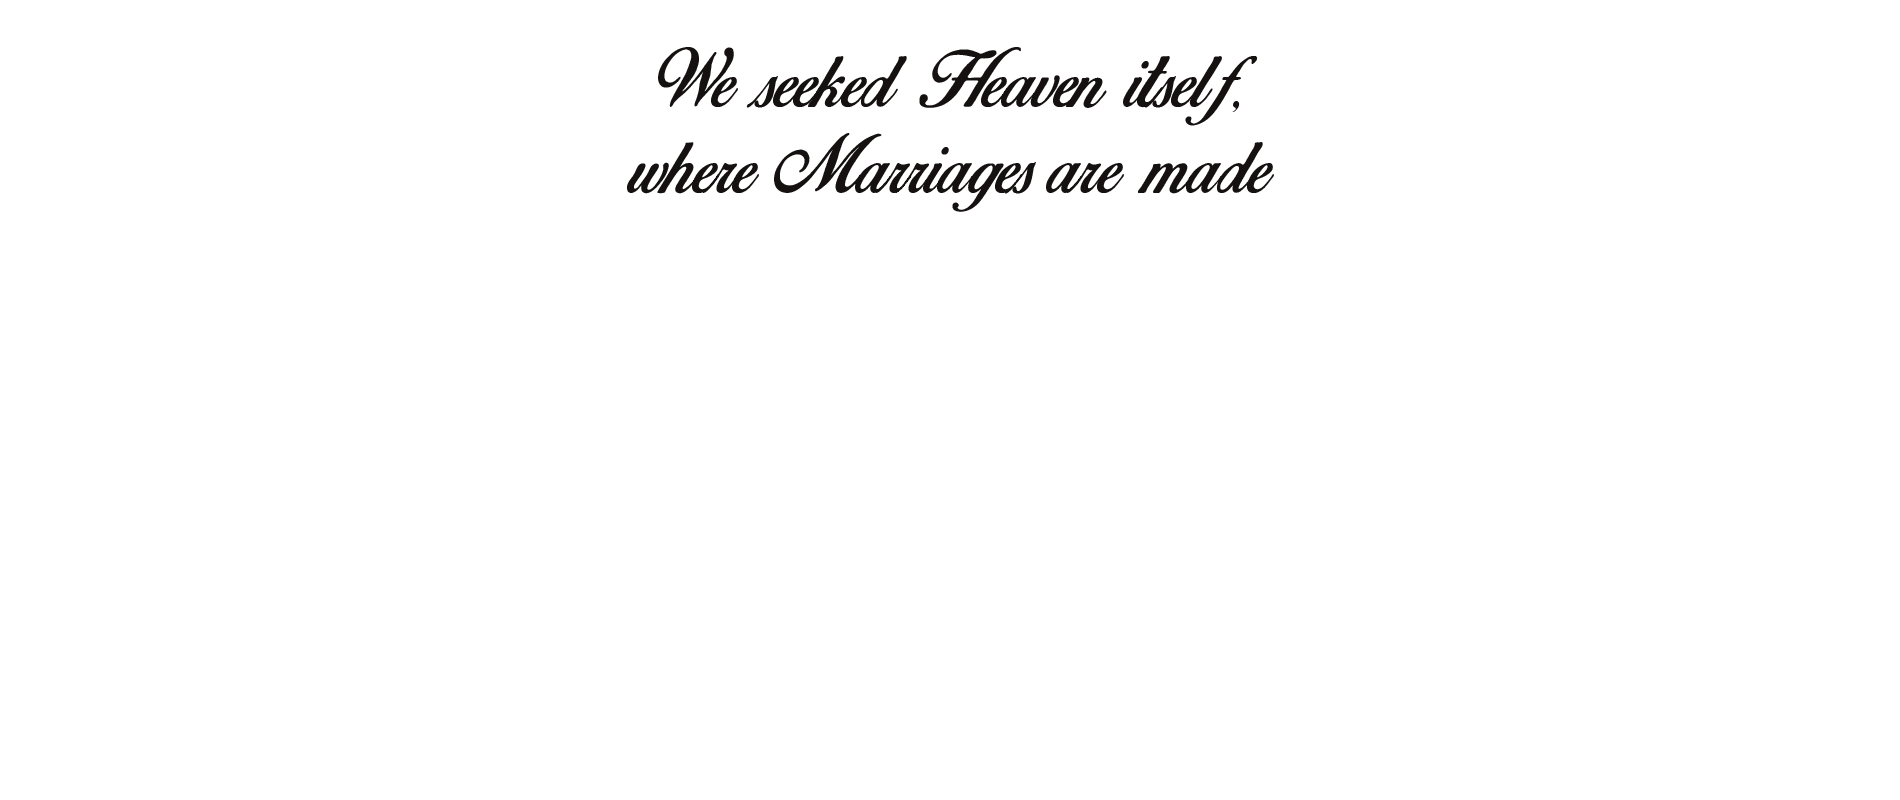
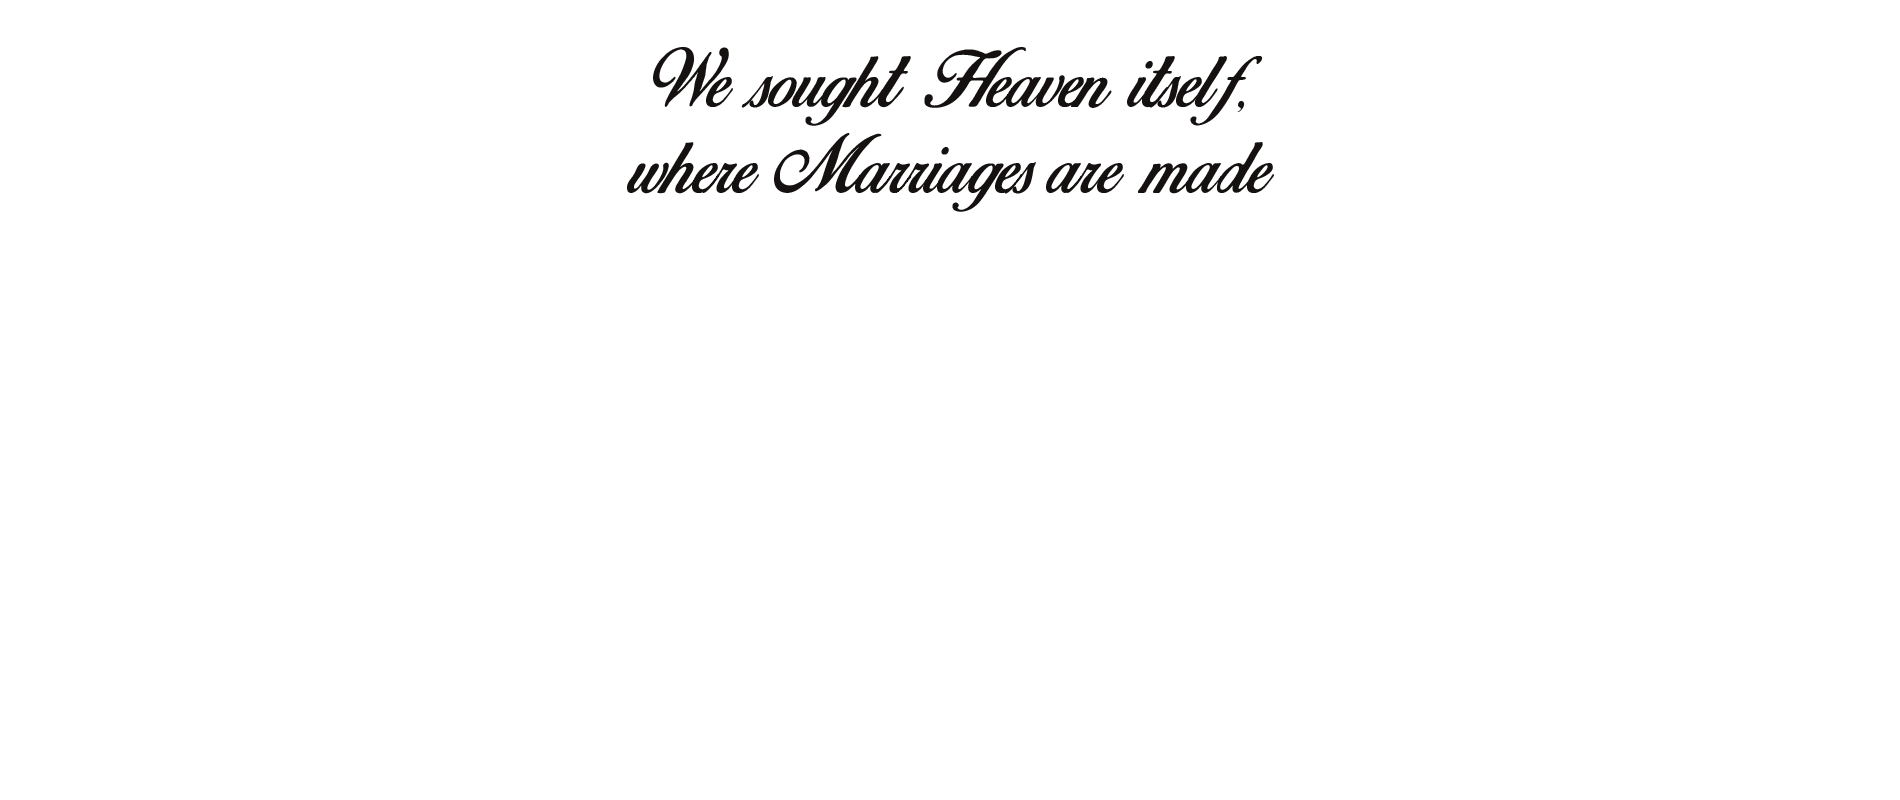
Mobile changes

Changed region(s): [[0.3416, 0.0625, 0.6832, 0.1562]]

diff --git a/mob_index.html b/mob_index.html
@@ -11,16 +11,26 @@
 </head>
 <body>
 <div class="background">
-  <div id="title" class="mobile"><h2> A Wedding Invitation from Ranjitha and Bharath </h2></div>
+  <div id="title" class="mobile"><img src="images/MobInviteSentence.png" height="10%" width="80%" style="top:42%;" /></div>
   <div id="invitetext" class="mobile">
-    <p>Please grace us with your presence and blessings
-        on Friday, the 28th of November, 2014
+    <p><b><i>Please grace us with your presence and blessings<br/>
+	at our Wedding on Friday, the 28th of November, 2014</i></b>
     </p></div>
   <div id="weddingimage" class="mobile"></div>
-  <div id="venue" class="mobile"><p> Venue: A very nice place</p></div>
+  <div id="venue" class="mobile">
+  <p> <b><i>Venue:</b></i><br/>
+  <i>
+  Raja Rajeshwari Kalyana Mantapa<br/>
+  No. 608/3, 2nd Block, Dr.Rajkumar Road,<br/>
+  Bangalore, India</i><br/>
+  <br/>
+  <i><b>Muhurtham:</b> 10.51am & 12.30pm<br/>
+  <b>Reception:</b> 6.30pm onwards</b></i><br/>
+  </p></div>
   <div id="rsvp" class="mobile">
     <div id="responseOuter" class="static">
-      <img src="images/RsvpText.png" height="5%" width="30%"  style="top:42%;" />
+      <img src="images/RsvpText.png" height="5%" width="30%"  style="top:42%;" /><br/>
+	  <b><i>Will you be there?</i></b>
       <div id="divYes" class="response"> Yes </div>
       <div id="divMaybe" class="response"> Maybe </div>
       <div id="divNo" class="response"> No </div>
